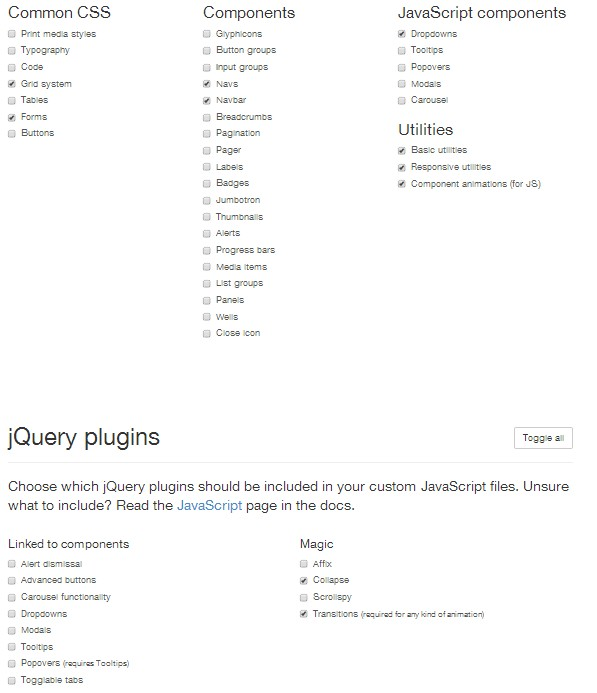
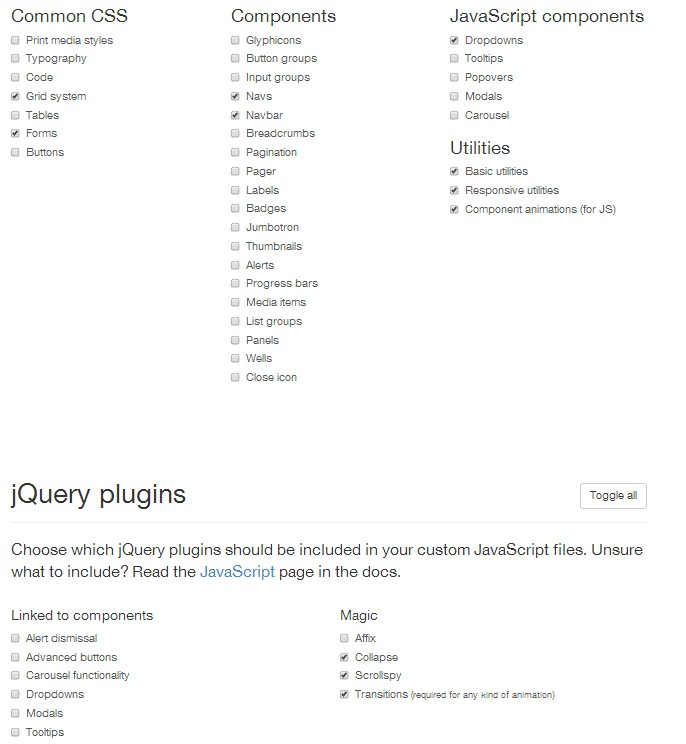
Adding some style for plans

diff --git a/app/src/lib/bootstrap/bootstrap-3.0.3-custom.min.js b/app/src/lib/bootstrap/bootstrap-3.0.3-custom.min.js
@@ -8,4 +8,4 @@
  * Designed and built with all the love in the world @twitter by @mdo and @fat.
  */
 
-+function(a){"use strict";var b=function(c,d){this.$element=a(c),this.options=a.extend({},b.DEFAULTS,d),this.transitioning=null,this.options.parent&&(this.$parent=a(this.options.parent)),this.options.toggle&&this.toggle()};b.DEFAULTS={toggle:!0},b.prototype.dimension=function(){var a=this.$element.hasClass("width");return a?"width":"height"},b.prototype.show=function(){if(this.transitioning||this.$element.hasClass("in"))return;var b=a.Event("show.bs.collapse");this.$element.trigger(b);if(b.isDefaultPrevented())return;var c=this.$parent&&this.$parent.find("> .panel > .in");if(c&&c.length){var d=c.data("bs.collapse");if(d&&d.transitioning)return;c.collapse("hide"),d||c.data("bs.collapse",null)}var e=this.dimension();this.$element.removeClass("collapse").addClass("collapsing")[e](0),this.transitioning=1;var f=function(){this.$element.removeClass("collapsing").addClass("in")[e]("auto"),this.transitioning=0,this.$element.trigger("shown.bs.collapse")};if(!a.support.transition)return f.call(this);var g=a.camelCase(["scroll",e].join("-"));this.$element.one(a.support.transition.end,a.proxy(f,this)).emulateTransitionEnd(350)[e](this.$element[0][g])},b.prototype.hide=function(){if(this.transitioning||!this.$element.hasClass("in"))return;var b=a.Event("hide.bs.collapse");this.$element.trigger(b);if(b.isDefaultPrevented())return;var c=this.dimension();this.$element[c](this.$element[c]())[0].offsetHeight,this.$element.addClass("collapsing").removeClass("collapse").removeClass("in"),this.transitioning=1;var d=function(){this.transitioning=0,this.$element.trigger("hidden.bs.collapse").removeClass("collapsing").addClass("collapse")};if(!a.support.transition)return d.call(this);this.$element[c](0).one(a.support.transition.end,a.proxy(d,this)).emulateTransitionEnd(350)},b.prototype.toggle=function(){this[this.$element.hasClass("in")?"hide":"show"]()};var c=a.fn.collapse;a.fn.collapse=function(c){return this.each(function(){var d=a(this),e=d.data("bs.collapse"),f=a.extend({},b.DEFAULTS,d.data(),typeof c=="object"&&c);e||d.data("bs.collapse",e=new b(this,f)),typeof c=="string"&&e[c]()})},a.fn.collapse.Constructor=b,a.fn.collapse.noConflict=function(){return a.fn.collapse=c,this},a(document).on("click.bs.collapse.data-api","[data-toggle=collapse]",function(b){var c=a(this),d,e=c.attr("data-target")||b.preventDefault()||(d=c.attr("href"))&&d.replace(/.*(?=#[^\s]+$)/,""),f=a(e),g=f.data("bs.collapse"),h=g?"toggle":c.data(),i=c.attr("data-parent"),j=i&&a(i);if(!g||!g.transitioning)j&&j.find('[data-toggle=collapse][data-parent="'+i+'"]').not(c).addClass("collapsed"),c[f.hasClass("in")?"addClass":"removeClass"]("collapsed");f.collapse(h)})}(jQuery),+function(a){function b(){var a=document.createElement("bootstrap"),b={WebkitTransition:"webkitTransitionEnd",MozTransition:"transitionend",OTransition:"oTransitionEnd otransitionend",transition:"transitionend"};for(var c in b)if(a.style[c]!==undefined)return{end:b[c]}}"use strict",a.fn.emulateTransitionEnd=function(b){var c=!1,d=this;a(this).one(a.support.transition.end,function(){c=!0});var e=function(){c||a(d).trigger(a.support.transition.end)};return setTimeout(e,b),this},a(function(){a.support.transition=b()})}(jQuery)
++function(a){"use strict";var b=function(c,d){this.$element=a(c),this.options=a.extend({},b.DEFAULTS,d),this.transitioning=null,this.options.parent&&(this.$parent=a(this.options.parent)),this.options.toggle&&this.toggle()};b.DEFAULTS={toggle:!0},b.prototype.dimension=function(){var a=this.$element.hasClass("width");return a?"width":"height"},b.prototype.show=function(){if(this.transitioning||this.$element.hasClass("in"))return;var b=a.Event("show.bs.collapse");this.$element.trigger(b);if(b.isDefaultPrevented())return;var c=this.$parent&&this.$parent.find("> .panel > .in");if(c&&c.length){var d=c.data("bs.collapse");if(d&&d.transitioning)return;c.collapse("hide"),d||c.data("bs.collapse",null)}var e=this.dimension();this.$element.removeClass("collapse").addClass("collapsing")[e](0),this.transitioning=1;var f=function(){this.$element.removeClass("collapsing").addClass("in")[e]("auto"),this.transitioning=0,this.$element.trigger("shown.bs.collapse")};if(!a.support.transition)return f.call(this);var g=a.camelCase(["scroll",e].join("-"));this.$element.one(a.support.transition.end,a.proxy(f,this)).emulateTransitionEnd(350)[e](this.$element[0][g])},b.prototype.hide=function(){if(this.transitioning||!this.$element.hasClass("in"))return;var b=a.Event("hide.bs.collapse");this.$element.trigger(b);if(b.isDefaultPrevented())return;var c=this.dimension();this.$element[c](this.$element[c]())[0].offsetHeight,this.$element.addClass("collapsing").removeClass("collapse").removeClass("in"),this.transitioning=1;var d=function(){this.transitioning=0,this.$element.trigger("hidden.bs.collapse").removeClass("collapsing").addClass("collapse")};if(!a.support.transition)return d.call(this);this.$element[c](0).one(a.support.transition.end,a.proxy(d,this)).emulateTransitionEnd(350)},b.prototype.toggle=function(){this[this.$element.hasClass("in")?"hide":"show"]()};var c=a.fn.collapse;a.fn.collapse=function(c){return this.each(function(){var d=a(this),e=d.data("bs.collapse"),f=a.extend({},b.DEFAULTS,d.data(),typeof c=="object"&&c);e||d.data("bs.collapse",e=new b(this,f)),typeof c=="string"&&e[c]()})},a.fn.collapse.Constructor=b,a.fn.collapse.noConflict=function(){return a.fn.collapse=c,this},a(document).on("click.bs.collapse.data-api","[data-toggle=collapse]",function(b){var c=a(this),d,e=c.attr("data-target")||b.preventDefault()||(d=c.attr("href"))&&d.replace(/.*(?=#[^\s]+$)/,""),f=a(e),g=f.data("bs.collapse"),h=g?"toggle":c.data(),i=c.attr("data-parent"),j=i&&a(i);if(!g||!g.transitioning)j&&j.find('[data-toggle=collapse][data-parent="'+i+'"]').not(c).addClass("collapsed"),c[f.hasClass("in")?"addClass":"removeClass"]("collapsed");f.collapse(h)})}(jQuery),+function(a){function b(c,d){var e,f=a.proxy(this.process,this);this.$element=a(c).is("body")?a(window):a(c),this.$body=a("body"),this.$scrollElement=this.$element.on("scroll.bs.scroll-spy.data-api",f),this.options=a.extend({},b.DEFAULTS,d),this.selector=(this.options.target||(e=a(c).attr("href"))&&e.replace(/.*(?=#[^\s]+$)/,"")||"")+" .nav li > a",this.offsets=a([]),this.targets=a([]),this.activeTarget=null,this.refresh(),this.process()}"use strict",b.DEFAULTS={offset:10},b.prototype.refresh=function(){var b=this.$element[0]==window?"offset":"position";this.offsets=a([]),this.targets=a([]);var c=this,d=this.$body.find(this.selector).map(function(){var d=a(this),e=d.data("target")||d.attr("href"),f=/^#\w/.test(e)&&a(e);return f&&f.length&&[[f[b]().top+(!a.isWindow(c.$scrollElement.get(0))&&c.$scrollElement.scrollTop()),e]]||null}).sort(function(a,b){return a[0]-b[0]}).each(function(){c.offsets.push(this[0]),c.targets.push(this[1])})},b.prototype.process=function(){var a=this.$scrollElement.scrollTop()+this.options.offset,b=this.$scrollElement[0].scrollHeight||this.$body[0].scrollHeight,c=b-this.$scrollElement.height(),d=this.offsets,e=this.targets,f=this.activeTarget,g;if(a>=c)return f!=(g=e.last()[0])&&this.activate(g);for(g=d.length;g--;)f!=e[g]&&a>=d[g]&&(!d[g+1]||a<=d[g+1])&&this.activate(e[g])},b.prototype.activate=function(b){this.activeTarget=b,a(this.selector).parents(".active").removeClass("active");var c=this.selector+'[data-target="'+b+'"],'+this.selector+'[href="'+b+'"]',d=a(c).parents("li").addClass("active");d.parent(".dropdown-menu").length&&(d=d.closest("li.dropdown").addClass("active")),d.trigger("activate.bs.scrollspy")};var c=a.fn.scrollspy;a.fn.scrollspy=function(c){return this.each(function(){var d=a(this),e=d.data("bs.scrollspy"),f=typeof c=="object"&&c;e||d.data("bs.scrollspy",e=new b(this,f)),typeof c=="string"&&e[c]()})},a.fn.scrollspy.Constructor=b,a.fn.scrollspy.noConflict=function(){return a.fn.scrollspy=c,this},a(window).on("load",function(){a('[data-spy="scroll"]').each(function(){var b=a(this);b.scrollspy(b.data())})})}(jQuery),+function(a){function b(){var a=document.createElement("bootstrap"),b={WebkitTransition:"webkitTransitionEnd",MozTransition:"transitionend",OTransition:"oTransitionEnd otransitionend",transition:"transitionend"};for(var c in b)if(a.style[c]!==undefined)return{end:b[c]}}"use strict",a.fn.emulateTransitionEnd=function(b){var c=!1,d=this;a(this).one(a.support.transition.end,function(){c=!0});var e=function(){c||a(d).trigger(a.support.transition.end)};return setTimeout(e,b),this},a(function(){a.support.transition=b()})}(jQuery)

diff --git a/app/stylesheets/style.css b/app/stylesheets/style.css
@@ -76,23 +76,28 @@ a {
 }
 
 .navtop-items-list li.navtop-item-selected:nth-child(1) a {
-    color: rgb(254, 80, 81) !important;
+    /*color: rgb(254, 80, 81) !important;*/
+    color: rgb(255, 29, 37) !important;
 }
 
 .navtop-items-list li.navtop-item-selected:nth-child(2) a {
-    color: rgb(26, 192, 206) !important;
+    /*color: rgb(26, 192, 206) !important;*/
+    color: rgb(63, 169, 245) !important;
 }
 
 .navtop-items-list li.navtop-item-selected:nth-child(3) a {
-    color: rgb(251, 149, 41) !important;
+    /*color: rgb(251, 149, 41) !important;*/
+    color: rgb(255, 147, 30) !important;
 }
 
 .navtop-items-list li.navtop-item-selected:nth-child(4) a {
-    color: rgb(27, 206, 112) !important;
+    /*color: rgb(27, 206, 112) !important;*/
+    color: rgb(122, 201, 67) !important;
 }
 
 .navtop-items-list li.navtop-item-selected:nth-child(5) a {
-    color: rgb(246, 80, 146) !important;
+    /*color: rgb(246, 80, 146) !important;*/
+    color: rgb(255, 108, 164) !important;
 }
 
 
@@ -114,23 +119,28 @@ a {
 }
 
 .navtop-items-list li:nth-child(1) {
-    background-image: -webkit-linear-gradient(rgb(254, 80, 81), rgb(254, 80, 81));
+    /*background-image: -webkit-linear-gradient(rgb(254, 80, 81), rgb(254, 80, 81));*/
+    background-image: -webkit-linear-gradient(rgb(255, 29, 37), rgb(255, 29, 37));
 }
 
 .navtop-items-list li:nth-child(2) {
-    background-image: -webkit-linear-gradient(rgb(26, 192, 206), rgb(26, 192, 206));
+    /*background-image: -webkit-linear-gradient(rgb(26, 192, 206), rgb(26, 192, 206));*/
+    background-image: -webkit-linear-gradient(rgb(63, 169, 245), rgb(63, 169, 245));
 }
 
 .navtop-items-list li:nth-child(3) {
-    background-image: -webkit-linear-gradient(rgb(251, 149, 41), rgb(251, 149, 41));
+    /*background-image: -webkit-linear-gradient(rgb(251, 149, 41), rgb(251, 149, 41));*/
+    background-image: -webkit-linear-gradient(rgb(255, 147, 30), rgb(255, 147, 30));
 }
 
 .navtop-items-list li:nth-child(4) {
-    background-image: -webkit-linear-gradient(rgb(27, 206, 112), rgb(27, 206, 112));
+    /*background-image: -webkit-linear-gradient(rgb(27, 206, 112), rgb(27, 206, 112));*/
+    background-image: -webkit-linear-gradient(rgb(122, 201, 67), rgb(122, 201, 67));
 }
 
 .navtop-items-list li:nth-child(5) {
-    background-image: -webkit-linear-gradient(rgb(246, 80, 146), rgb(246, 80, 146));
+    /*background-image: -webkit-linear-gradient(rgb(246, 80, 146), rgb(246, 80, 146));*/
+    background-image: -webkit-linear-gradient(rgb(255, 108, 164), rgb(255, 108, 164));
 }
 
 /* CONTENT */
@@ -138,10 +148,11 @@ a {
     display: block;
     position: relative;
     width: 100%;
+    background-color: rgb(240, 240, 240);
 }
 
 .content-container:after {
-    background: url("1.jpg")no-repeat center center fixed;
+    /*background: url("1.jpg")no-repeat center center fixed;
     -webkit-background-size: cover;
     -moz-background-size: cover;
     -o-background-size: cover;
@@ -153,13 +164,16 @@ a {
     left: 0;
     position: absolute;
     z-index: -1;
-    content: "";
+    content: "";*/
 }
 
 h1 {
     margin-top: 0;
-    font-size: 38px;
+    margin-bottom: 20px;
+    font-size: 40px;
     font-weight: normal;
+    text-transform: uppercase;
+    text-align: center;
 }
 
 .row {
@@ -178,5 +192,80 @@ footer {
 }
 
 .footer-icon {
-    color: rgb(254, 80, 81);
+    color: rgb(255, 29, 37);
+}
+
+.plan-container {
+    color: rgb(44, 44, 44);
+    padding: 20px;
+    -webkit-transition: all 0.1s ease-out;
+    -moz-transition: all 0.1s ease-out;
+    -o-transition: all 0.1s ease-out;
+    -ms-transition: all 0.1s ease-out;
+    transition: all 0.1s ease-out;
+}
+
+.plan-container:hover {
+    z-index: 10;
+    -webkit-transform: scale(1.05,1.05);
+    box-shadow: 0 0 5px rgb(220, 220, 220);
+}
+
+.plan-container:nth-child(1) {
+    background-color: rgb(255, 255, 255);
+}
+
+.plan-container:nth-child(2) {
+    background-color: rgb(122, 201, 67);
+    color: rgb(255, 255, 255);
+}
+
+.plan-container:nth-child(3) {
+    background-color: rgb(90, 90, 90);
+    color: rgb(255, 255, 255);
+}
+
+.plan-title {
+    margin: 0;
+    padding-bottom: 10px;
+    font-size: 24px;
+    font-weight: normal;
+    text-transform: uppercase;
+    text-align: center;
+    border-bottom: 1px solid rgb(220, 220, 220);
+}
+
+.plan-img {
+    width: 100px;
+    height: 100px;
+    display: block;
+    margin: 0 auto;
+    margin-bottom: 10px;
+    margin-top: 10px;
+}
+
+.plan-list {
+    list-style-type: none;
+    margin: 0;
+}
+
+.plan-list-item {
+    margin-bottom: 5px;
+}
+
+.plan-list-icon {
+    font-size: 24px;
+    vertical-align: sub;
+    margin-right: 5px;
+}
+
+.plan-price {
+    text-transform: uppercase;
+    text-align: center;
+    font-size: 40px;
+    margin-top: 10px;
+}
+
+.plan-price span {
+    font-size: 14px;
 }

diff --git a/app/views/partials/home/home.html b/app/views/partials/home/home.html
@@ -77,25 +77,84 @@
     <div class="row space" id="plans">
         <h1>Plans</h1>
 
-        <h2>Angular test: {{test}}</h2>
+        <div class="container">
+            <div class="row">
+                <div class="col-md-4 plan-container">
+                    <h3 class="plan-title">Free</h3>
 
-        <p>TEST</p>
-        <p>TEST</p>
-        <p>TEST</p>
-        <p>TEST</p>
-        <p>TEST</p>
-        <p>TEST</p>
-        <p>TEST</p>
-        <p>TEST</p>
-        <p>TEST</p>
-        <p>TEST</p>
-        <p>TEST</p>
-        <p>TEST</p>
-        <p>TEST</p>
-        <p>TEST</p>
-        <p>TEST</p>
-        <p>TEST</p>
-        <p>TEST</p>
+                    <img class="plan-img" src="/stylesheets/icon_gift.svg">
+
+                    <ul class="plan-list">
+                        <li class="plan-list-item">
+                            <i class="fa fa-check-circle plan-list-icon"></i> 30 days before expiration
+                        </li>
+                        <li class="plan-list-item">
+                            <i class="fa fa-check-circle plan-list-icon"></i> 100 Go usable storage
+                        </li>
+                        <li class="plan-list-item">
+                            <i class="fa fa-check-circle plan-list-icon"></i> Upload 100 mbps - Download 100 mbps
+                        </li>
+                        <li class="plan-list-item">
+                            <i class="fa fa-check-circle plan-list-icon"></i> 100 Go shared link daily transfer quota
+                        </li>
+                    </ul>
+
+                    <div class="plan-price">
+                        Free
+                    </div>
+                </div>
+
+                <div class="col-md-4 plan-container">
+                    <h3 class="plan-title">Pro</h3>
+
+                    <img class="plan-img" src="/stylesheets/icon_handshake.svg">
+
+                    <ul class="plan-list">
+                        <li class="plan-list-item">
+                            <i class="fa fa-check-circle plan-list-icon"></i> 90 days before expiration
+                        </li>
+                        <li class="plan-list-item">
+                            <i class="fa fa-check-circle plan-list-icon"></i> 300 Go usable storage
+                        </li>
+                        <li class="plan-list-item">
+                            <i class="fa fa-check-circle plan-list-icon"></i> Upload 300 mbps - Download 300 mbps
+                        </li>
+                        <li class="plan-list-item">
+                            <i class="fa fa-check-circle plan-list-icon"></i> 300 Go shared link daily transfer quota
+                        </li>
+                    </ul>
+
+                    <div class="plan-price">
+                        $14.99<span>/month</span>
+                    </div>
+                </div>
+
+                <div class="col-md-4 plan-container">
+                    <h3 class="plan-title">Enterprise</h3>
+
+                    <img class="plan-img" src="/stylesheets/icon_briefcase.svg">
+
+                    <ul class="plan-list">
+                        <li class="plan-list-item">
+                            <i class="fa fa-check-circle plan-list-icon"></i> 365 days before expiration
+                        </li>
+                        <li class="plan-list-item">
+                            <i class="fa fa-check-circle plan-list-icon"></i> 1000 Go usable storage
+                        </li>
+                        <li  class="plan-list-item">
+                            <i class="fa fa-check-circle plan-list-icon"></i> Upload 1000 mbps - Download 1000 mbps
+                        </li>
+                        <li  class="plan-list-item">
+                            <i class="fa fa-check-circle plan-list-icon"></i> 1000 Go shared link daily transfer quota
+                        </li>
+                    </ul>
+
+                    <div class="plan-price">
+                        $24.99<span>/month</span>
+                    </div>
+                </div>
+            </div>
+        </div>
     </div>
 
 

diff --git a/app/views/index.html b/app/views/index.html
@@ -54,7 +54,10 @@
         <footer>
             <div class="container">
                 <div class="row">
-                    <div class="col-md-12 center">Designed & built with <i class="fa fa-heart footer-icon"></i> in Toulouse. © 2014 Cubbyhole. All rights reserved.</div>
+                    <div class="col-md-12 center">
+                        Designed & built with <i class="fa fa-heart footer-icon"></i> in Toulouse.
+                        © 2014 Cubbyhole. All rights reserved.
+                    </div>
                 </div>
             </div>
         </footer>

diff --git a/app/views/partials/terms/terms.html b/app/views/partials/terms/terms.html
@@ -1,0 +1,3 @@
+Handshake designed by <a href="/Joseluis">jose luis garcia</a> from the <a href="http://www.thenounproject.com">Noun Project</a>
+
+Briefcase designed by <a href="/dmitry.kudinov.35">Dmitry Kudinov</a> from the <a href="http://www.thenounproject.com">Noun Project</a>
